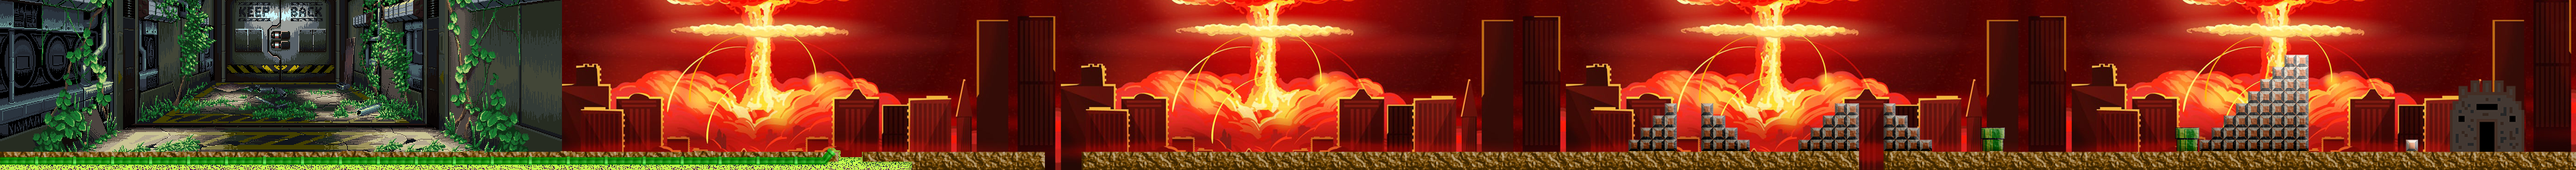
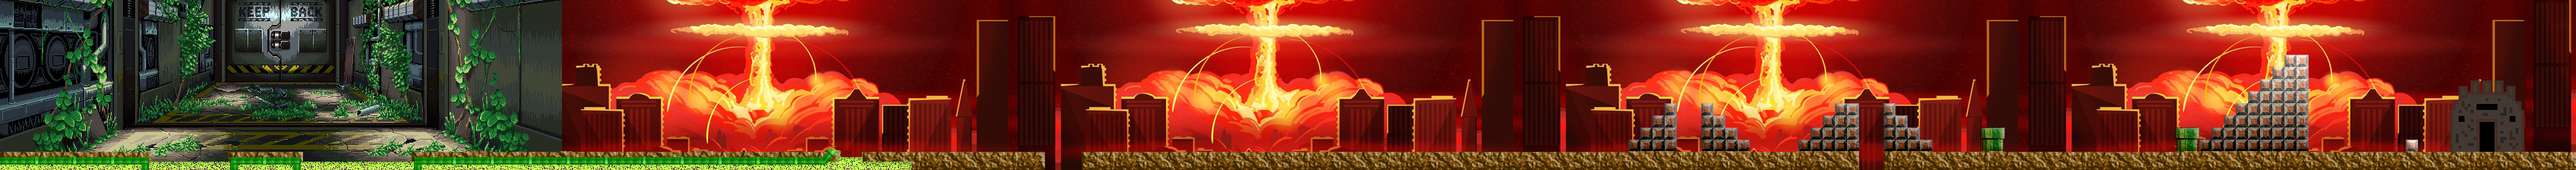
I added more holes in the floor

Changed region(s): [[0.0312, 0.875, 0.1875, 1.0]]

diff --git a/Mario Game/Mario-Level-1/data/states/level2.py b/Mario Game/Mario-Level-1/data/states/level2.py
@@ -73,16 +73,21 @@ class Level2(tools._State):
 
     def setup_ground(self):
         """Creates collideable, invisible rectangles over top of the ground for
-        sprites to walk on"""
-        ground_rect1 = collider.Collider(0, c.GROUND_HEIGHT,    2953, 60)
+        sprites to walk on x = starting position y = length of surface z = height"""
+
+        ground_rect1 = collider.Collider(0, c.GROUND_HEIGHT,    536, 60)
+        ground_rect02 = collider.Collider(804, c.GROUND_HEIGHT,    268, 60)
+        ground_rect03 = collider.Collider(1464, c.GROUND_HEIGHT,    1489, 60)
         ground_rect2 = collider.Collider(3048, c.GROUND_HEIGHT,  635, 60)
         ground_rect3 = collider.Collider(3819, c.GROUND_HEIGHT, 2735, 60)
         ground_rect4 = collider.Collider(6647, c.GROUND_HEIGHT, 2300, 60)
 
         self.ground_group = pg.sprite.Group(ground_rect1,
-                                           ground_rect2,
-                                           ground_rect3,
-                                           ground_rect4)
+        									ground_rect02,
+        									ground_rect2,
+        									ground_rect03,
+                                            ground_rect3,
+                                            ground_rect4)
 
 
     def setup_pipes(self):
@@ -157,9 +162,11 @@ class Level2(tools._State):
         self.powerup_group = pg.sprite.Group()
         self.brick_pieces_group = pg.sprite.Group()
 
+# x first next y  but y is inverted
+        brick4  = bricks.Brick(796, 500,  c.SIXCOINS, self.coin_group)
+        brick5  = bricks.Brick(1072, 500, c.SIXCOINS, self.coin_group)
 
-        brick4  = bricks.Brick(3299, 365)
-        brick5  = bricks.Brick(3385, 365)
+
         brick6  = bricks.Brick(3430, 193)
         brick7  = bricks.Brick(3473, 193)
         brick8  = bricks.Brick(3516, 193)
@@ -208,7 +215,8 @@ class Level2(tools._State):
         """Creates all the coin boxes and puts them in a sprite group"""
 
         
-        coin_box2  = coin_box.Coin_box(901, 365, c.MUSHROOM, self.powerup_group)
+        coin_box2  = coin_box.Coin_box(400, 365, c.MUSHROOM, self.powerup_group)
+
         coin_box3  = coin_box.Coin_box(987, 365, c.MUSHROOM, self.powerup_group)
         coin_box4  = coin_box.Coin_box(943, 193, c.COIN, self.coin_group)
         coin_box5  = coin_box.Coin_box(3342, 365, c.MUSHROOM, self.powerup_group)
@@ -279,7 +287,10 @@ class Level2(tools._State):
         goomba15 = enemies.Goomba()
 
         koopa0 = enemies.Koopa()
+        koopa1 = enemies.Koopa()
+        koopa2 = enemies.Koopa()
 
+        enemy_group0 = pg.sprite.Group(koopa0, koopa2)
         enemy_group1 = pg.sprite.Group(goomba0)
         enemy_group2 = pg.sprite.Group(goomba1)
         enemy_group3 = pg.sprite.Group(goomba2, goomba3)
@@ -291,7 +302,8 @@ class Level2(tools._State):
         enemy_group9 = pg.sprite.Group(goomba12, goomba13)
         enemy_group10 = pg.sprite.Group(goomba14, goomba15)
 
-        self.enemy_group_list = [enemy_group1,
+        self.enemy_group_list = [enemy_group0,
+        						 enemy_group1,
                                  enemy_group2,
                                  enemy_group3,
                                  enemy_group4,
@@ -313,6 +325,7 @@ class Level2(tools._State):
     def setup_checkpoints(self):
         """Creates invisible checkpoints that when collided will trigger
         the creation of enemies from the self.enemy_group_list"""
+        check0 = checkpoint.Checkpoint(402, "0")
         check1 = checkpoint.Checkpoint(510, "1")
         check2 = checkpoint.Checkpoint(1400, '2')
         check3 = checkpoint.Checkpoint(1740, '3')
@@ -327,7 +340,8 @@ class Level2(tools._State):
         check12 = checkpoint.Checkpoint(8775, '12')
         check13 = checkpoint.Checkpoint(2740, 'secret_mushroom', 360, 40, 12)
 
-        self.check_point_group = pg.sprite.Group(check1, check2, check3,
+        self.check_point_group = pg.sprite.Group(check0,
+        										 check1, check2, check3,
                                                  check4, check5, check6,
                                                  check7, check8, check9,
                                                  check10, check11, check12,
